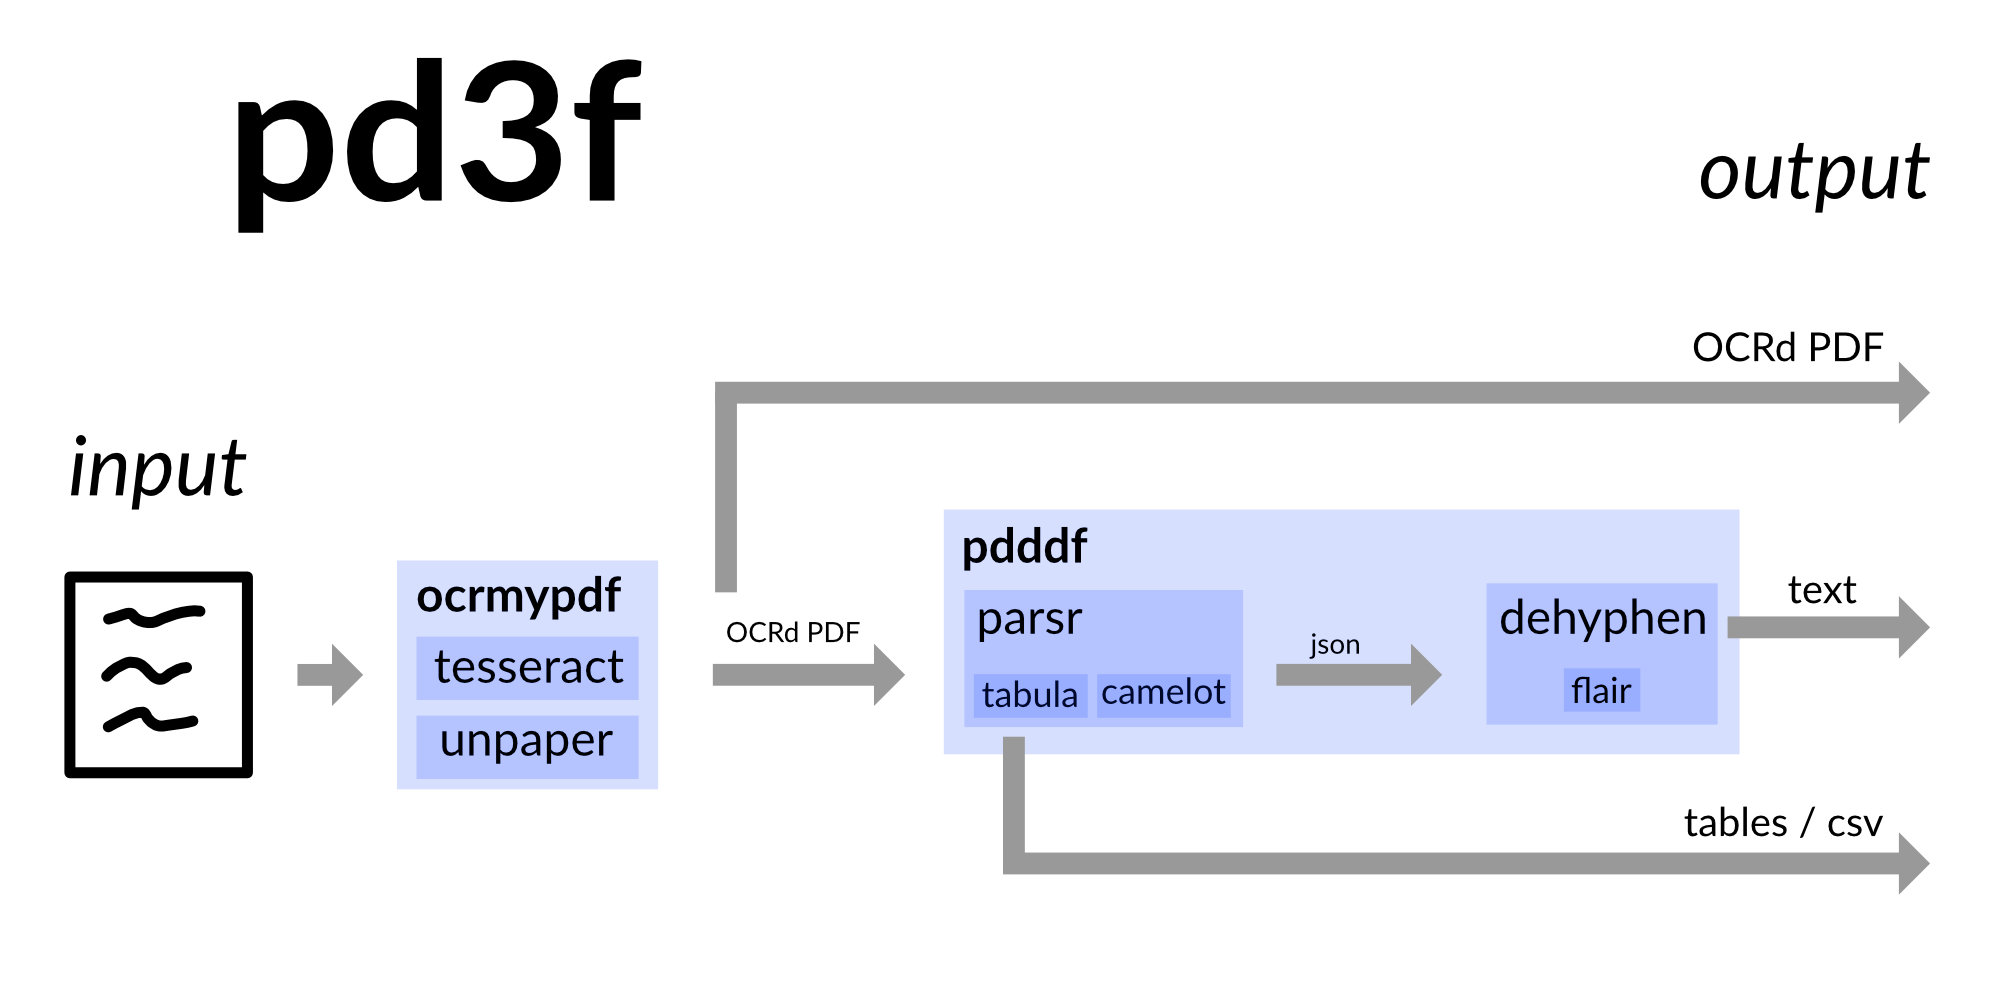
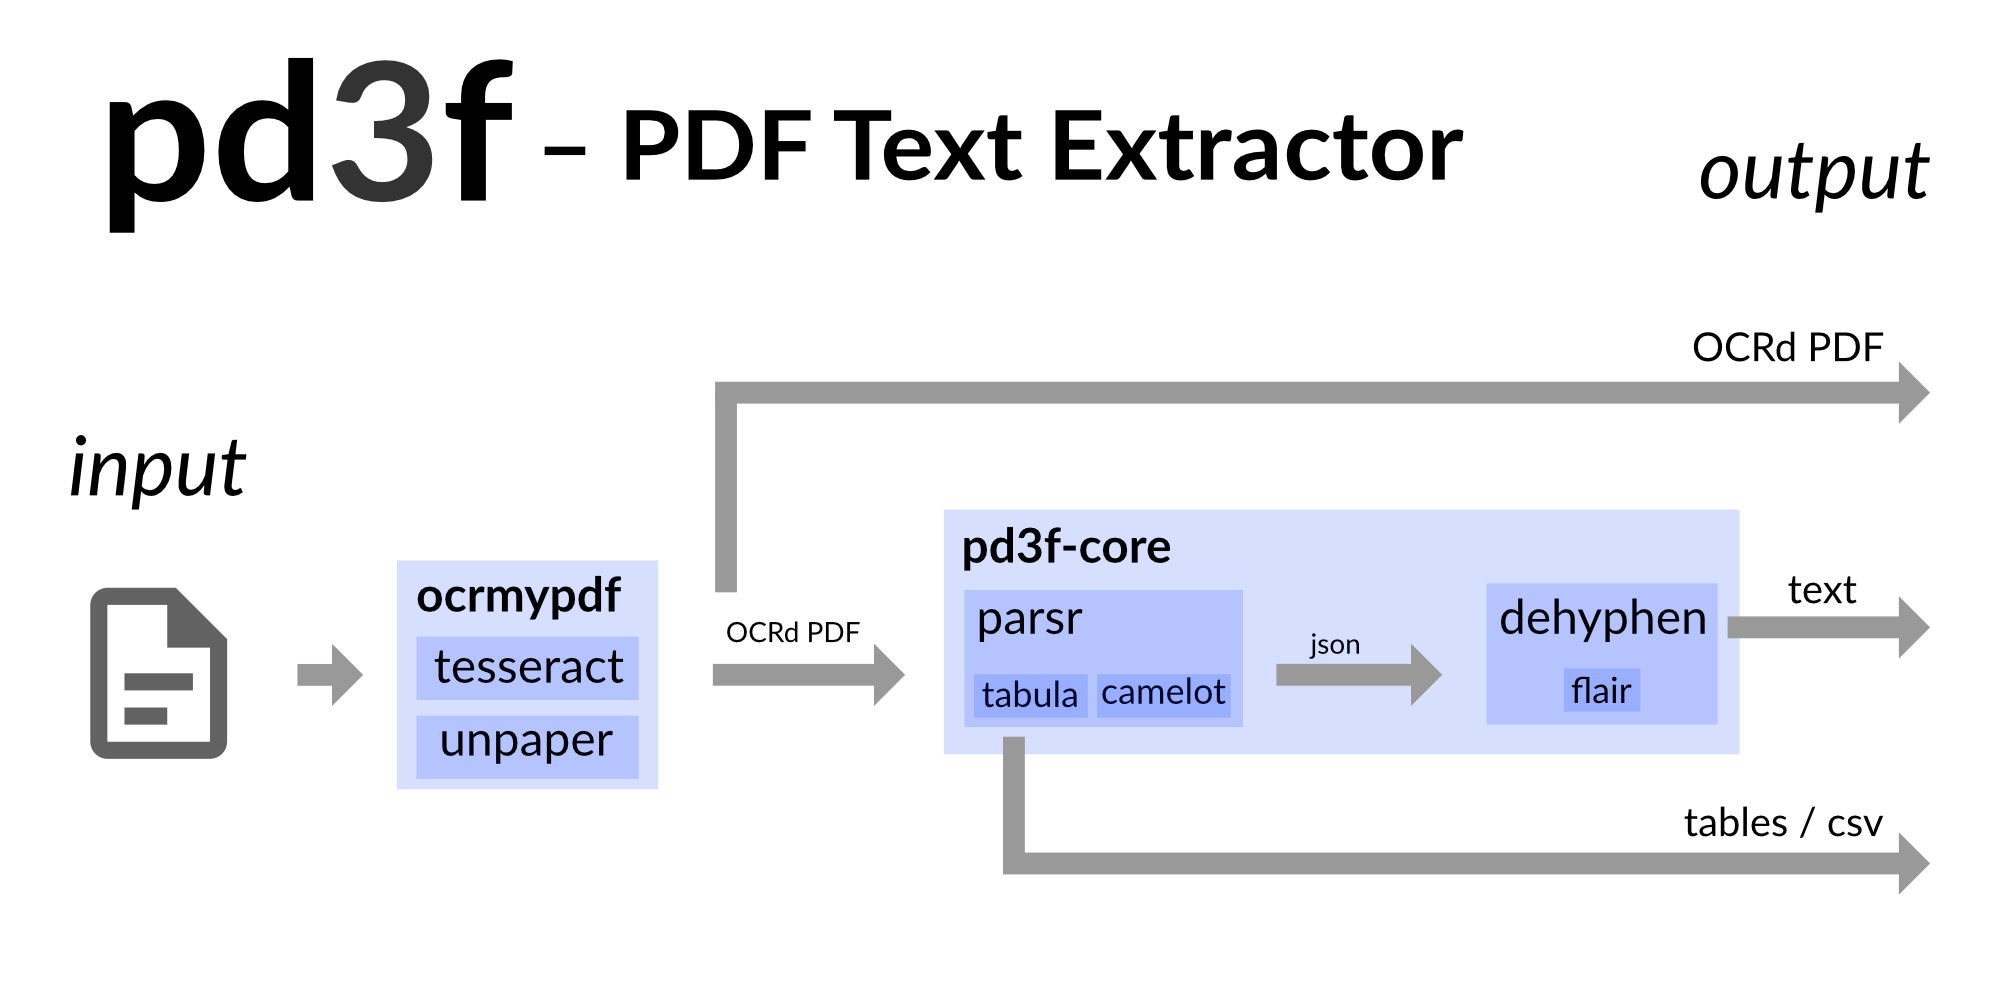
improve docs / explanation

Changed region(s): [[0.031, 0.062, 0.744, 0.248], [0.031, 0.558, 0.124, 0.806], [0.496, 0.527, 0.589, 0.589]]

diff --git a/pd3f/templates/result.html b/pd3f/templates/result.html
@@ -33,6 +33,11 @@
                             >{{job_id}}
                             <span class="sr-only">(current)</span></a
                         >
+                        <small class="navbar-text">
+                            Feel free to bookmark or share
+                            <a href="/result/{{job_id}}">the current page</a>.
+                            The link is unique and not listed.</small
+                        >
                     </div>
                 </div>
             </nav>
@@ -118,7 +123,7 @@
                             '<span class="badge badge-success">done</span>';
 
                         buttons =
-                            '<a class="btn btn-primary mr-5" href="/files/{{filename}}" role="button">download pdf</a> <a class="btn btn-primary mr-5" href="/files/{{filename}}.txt" role="button">download text</a>';
+                            '<a class="btn btn-primary mr-5" href="/files/{{filename}}" role="button">download OCRd pdf</a> <a class="btn btn-primary mr-5" href="/files/{{filename}}.txt" role="button">download text</a>';
 
                         if ("tables" in json) {
                             if (json.tables.length > 1) {

diff --git a/pd3f/templates/index.html b/pd3f/templates/index.html
@@ -95,7 +95,8 @@
                         name="experimental"
                     />
                     <label class="form-check-label" for="checkExperimental">
-                        experimental mode
+                        deduplicate page header/footer & transform footnotes to
+                        endnotes (experimental mode)
                     </label>
                 </div>
                 <input type="hidden" name="in_browser" value="1" />

diff --git a/pd3f/app.py b/pd3f/app.py
@@ -22,7 +22,7 @@ from rq import Queue, get_current_job
 from rq_scheduler import Scheduler
 from werkzeug.utils import secure_filename
 
-from pdddf import extract
+from pd3f import extract
 
 
 flair.cache_root = "/root/.cache/flair"

diff --git a/README.md b/README.md
@@ -1,27 +1,27 @@
 ![](imgs/flow.jpg)
 
-# `pd3f` – Beyond PDF
+# `pd3f` – PDF Text Extractor
 
 *Experimental, use with care.*
 
-`pd3f` is a self-hosted Docker-based PDF **text extraction** pipeline.
-It tries to **reconstruct** the **original text** with the help of **machine learning**.
+`pd3f` is a PDF **text extraction** pipeline that is self-hosted, local-first and Docker-based.
+It **reconstructs** the original **continuous text** with the help of **machine learning**.
 
 `pd3f` can OCR scanned PDFs with [OCRmyPDF](https://github.com/jbarlow83/OCRmyPDF) (Tesseract) and extracts tables with [Camelot](https://github.com/camelot-dev/camelot) and [Tabula](https://github.com/tabulapdf/tabula).
-It's build upon the output of [Parsr](https://github.com/axa-group/Parsr),
+It's build upon the output of [Parsr](https://github.com/axa-group/Parsr).
 Parsr detects hierarchies of text and splits the text into words / lines / paragraphs.
 
 Even though Parsr brings some structure to the PDF, the text is still scrambled, i.e., due to hyphens.
-The underlying Python package [pdddf](https://github.com/jfilter/pdddf) tries to reconstruct the original text by removing hyphens, new lines and / or space.
+The underlying Python package [`pd3f-core`](https://github.com/pd3f/pd3f-core) tries to reconstruct the original continuous text by removing hyphens, new lines and / or space.
 It uses [languages models](https://machinelearningmastery.com/statistical-language-modeling-and-neural-language-models/) to guess how the original text looked like.
+
+`pd3f` is especially useful for languages with longs words such as German.
+(It was mainly developed for German letters and official documents.)
+Besides German `pd3f` supports English, Spanish and French.
+More languages will be added a later stage.
 
 `pd3f` includes a Web-based GUI and a [Flask](https://flask.palletsprojects.com/)-based micro service (API).
 You can find a demo at [demo.pd3f.com](https://demo.pd3f.com).
-
-It was developed for German letters and offical documents.
-It should work for other languages as well.
-Besides German `pd3f` supports English, Spanish and French for now.
-More languages will be added a later stage.
 
 A more systematic evaluation of `pd3f` will follow in September 2020.
 
@@ -75,7 +75,7 @@ Post params:
  - `lang`: set the language (options: 'de', 'en', 'es', 'fr')
  - `fast`: whether to check for tables (default: False)
  - `tables`: whether to check for tables (default: False)
- - `experimental`: whether to extract text in experimental mode (default: False)
+ - `experimental`: whether to extract text in experimental mode (footnotes to endnotes, depuplicate page header / footer) (default: False)
  - `check_ocr`: whether to check first if all pages were OCRd (default: True, cannot be modified in GUI)
 
 You have to poll for `/update/<uuid>` to keep progress. The responding JSON tells you about the status of the request.
@@ -90,7 +90,6 @@ Fields:
 ### Scaling
 
 You can also run more worker with this:
-
 
 ```bash
 docker-compose up --scale worker=3
